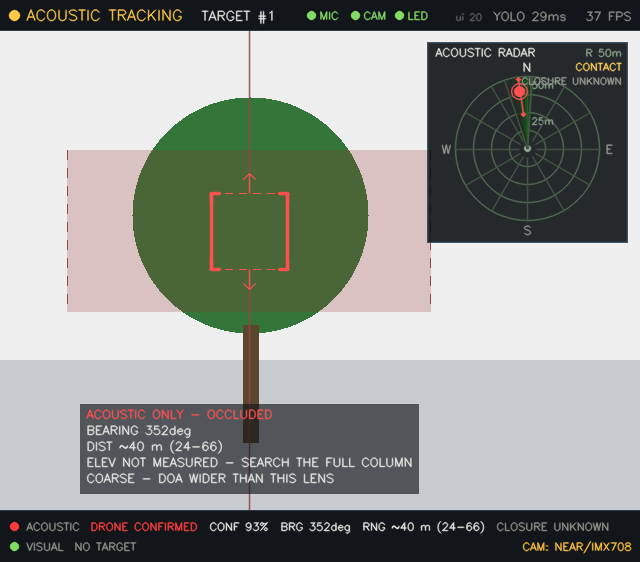
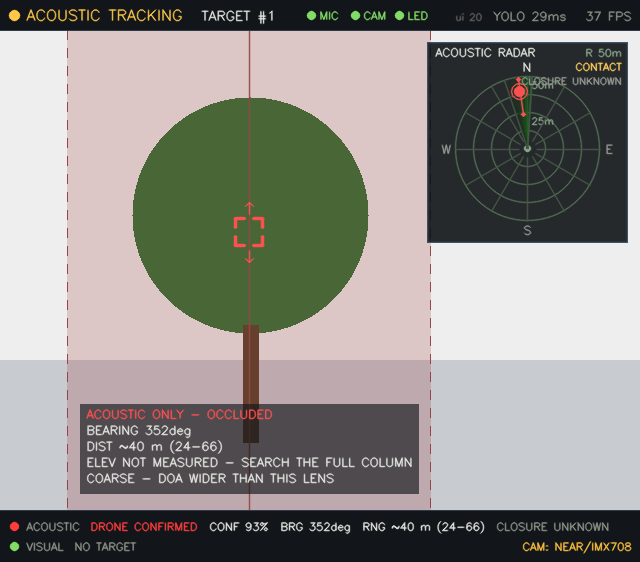
uqqqqqqq

diff --git a/acoustic_radar/hud.py b/acoustic_radar/hud.py
@@ -479,19 +479,19 @@ class HUD:
 
         # ── The search REGION ──
         #
-        # WIDTH is a real measurement: the bearing uncertainty projected
-        # through this camera's own lens, so a low-confidence bearing is
-        # visibly a wider search.
+        # Exactly two things are drawn, because exactly two things are
+        # known, and they are different in kind:
         #
-        # HEIGHT is NOT a measurement, and the drawing says so rather than
-        # the region being withheld. The array reports azimuth only, so the
-        # box's top and bottom edges are drawn OPEN — solid sides, corner
-        # brackets, and arrows continuing past the top and bottom — which
-        # reads as "this column, height unknown" while still being a
-        # compact marker an operator can find at a glance.
+        #   THE COLUMN   where the drone can be. Its WIDTH is measured (the
+        #                bearing uncertainty through this lens). Its HEIGHT
+        #                is the WHOLE FRAME, because elevation is not
+        #                measured at all — the drone can be anywhere up or
+        #                down that column.
         #
-        # `ui.cue_style = "band"` extends it over the whole frame height for
-        # anyone who wants the unknown elevation stated more loudly.
+        #   THE MARKER   a small fixed reticle on the best-estimate bearing.
+        #                It marks a DIRECTION. Its size carries no
+        #                information whatsoever and must therefore not be
+        #                derived from any measurement.
         x0 = max(0, cx - half)
         x1 = min(width, cx + half)
         if x1 <= x0:
@@ -499,67 +499,53 @@ class HUD:
 
         # ⚠ A region covering most of the frame stops being a region. On
         # the FAR camera (28 deg lens) a +/-30 deg bearing projects wider
-        # than the whole picture; tinting everything hides the very obstacle
-        # the operator is studying while saying nothing. Edges and caption
-        # only in that case.
+        # than the whole picture; tinting everything hides the obstacle the
+        # operator is studying while saying nothing.
         covers_most = (x1 - x0) >= 0.6 * width
 
-        if str(self.config.ui.cue_style).lower() == "band":
-            y0, y1 = top, bot
-            open_ended = False
-        else:
-            bh = int(height * float(self.config.ui.cue_box_height_frac))
-            cyc = top + int(height * float(self.config.ui.cue_box_centre_frac))
-            y0 = max(top, cyc - bh // 2)
-            y1 = min(bot, cyc + bh // 2)
-            open_ended = True
-
-        # ── 1. The UNCERTAINTY area: faint, wide, honest ──
-        # This is how much of the picture the bearing genuinely cannot
-        # narrow down. It is drawn faintly so it never competes with the
-        # marker or hides the obstacle.
-        if not covers_most:
-            roi = canvas[y0:y1, x0:x1]
-            tint = np.full_like(roi, C_CUE_FILL)
-            cv2.addWeighted(tint, 0.22, roi, 0.78, 0.0, dst=roi)
-        _dashed_v(canvas, x0, y0, y1, C_CUE_DIM)
-        _dashed_v(canvas, x1 - 1, y0, y1, C_CUE_DIM)
-
-        if not open_ended:
-            cv2.line(canvas, (cx, top), (cx, bot), C_CUE, 1, cv2.LINE_AA)
-            return
-
-        # ── 2. The MARKER: compact, bright, the thing the eye finds ──
+        # ── 1. The column — ALWAYS full height ──
         #
-        # A reticle at the best estimate, exactly as a targeting display
-        # puts a small mark at the solution and a wider figure around it for
-        # the error. Making the MARKER as wide as the uncertainty (which an
-        # earlier version did) buries the "look here" in a slab of colour;
-        # making the UNCERTAINTY as small as the marker would claim a
-        # precision the array does not have. Both are drawn, each saying
-        # its own thing.
-        mh = max(18, int(height * float(self.config.ui.cue_marker_frac)))
-        mw = min(mh, max(12, (x1 - x0) // 2))
-        mx0, mx1 = cx - mw // 2, cx + mw // 2
-        my0, my1 = (y0 + y1) // 2 - mh // 2, (y0 + y1) // 2 + mh // 2
+        # ⚠ FIXED: this used to be given a vertical extent from
+        # `cue_box_height_frac` whenever the style was "box". That quietly
+        # asserted an UPPER AND LOWER BOUND on the drone's elevation, which
+        # is the one thing this sensor cannot supply at all. A faint band
+        # 34% of the frame tall reads as "it is somewhere in here
+        # vertically" — and that was simply false.
+        if not covers_most:
+            roi = canvas[top:bot, x0:x1]
+            cv2.addWeighted(np.full_like(roi, C_CUE_FILL), 0.20, roi, 0.80,
+                            0.0, dst=roi)
+        _dashed_v(canvas, x0, top, bot, C_CUE_DIM)
+        _dashed_v(canvas, x1 - 1, top, bot, C_CUE_DIM)
+        cv2.line(canvas, (cx, top), (cx, bot), C_CUE_DIM, 1, cv2.LINE_AA)
 
-        # Sides SOLID — the horizontal position is measured.
-        cv2.line(canvas, (mx0, my0), (mx0, my1), C_CUE, 2, cv2.LINE_AA)
-        cv2.line(canvas, (mx1, my0), (mx1, my1), C_CUE, 2, cv2.LINE_AA)
-        # Top and bottom DASHED, with arrows running past them — the
-        # vertical position is NOT measured, and the marker must never read
-        # like a YOLO box, which asserts both dimensions.
-        _dashed_h(canvas, my0, mx0, mx1, C_CUE)
-        _dashed_h(canvas, my1, mx0, mx1, C_CUE)
-        _corner_brackets(canvas, mx0, my0, mx1 + 1, my1 + 1, C_CUE, arm=8)
-        for y, dy in ((my0, -1), (my1, 1)):
-            cv2.arrowedLine(canvas, (cx, y), (cx, int(y + dy * 20)), C_CUE, 1,
-                            cv2.LINE_AA, tipLength=0.4)
+        # ── 2. The marker ──
+        if str(self.config.ui.cue_style).lower() != "band":
+            # ⚠ FIXED: the size used to be
+            #     mh = height * cue_marker_frac
+            #     mw = min(mh, (x1 - x0) // 2)
+            # — a width derived from a height, capped by half the bearing
+            # uncertainty. Neither expression meant anything: the reticle
+            # marks a direction, so tying its size to the error made it grow
+            # exactly when the estimate got WORSE. It is now a fixed square.
+            m = max(12, int(round(height * float(
+                self.config.ui.cue_marker_frac))))
+            my = top + int(round(height * float(
+                self.config.ui.cue_marker_centre_frac)))
+            mx0, mx1 = cx - m // 2, cx + m // 2
+            my0, my1 = my - m // 2, my + m // 2
 
-        # The bearing line, drawn only OUTSIDE the marker so the marker's
-        # interior stays clear for whatever is hiding the drone.
-        cv2.line(canvas, (cx, top), (cx, my0 - 20), C_CUE_DIM, 1, cv2.LINE_AA)
-        cv2.line(canvas, (cx, my1 + 20), (cx, bot), C_CUE_DIM, 1, cv2.LINE_AA)
+            # Corner brackets only. At this size dashed edges turn to mush,
+            # and brackets leave all four edges open anyway — which is the
+            # honest shape: nothing here is a closed, measured boundary.
+            _corner_brackets(canvas, mx0, my0, mx1, my1, C_CUE,
+                             arm=max(4, m // 3))
+            # Short arrows above and below, saying the drone may be higher
+            # or lower along this column.
+            for y, dy in ((my0, -1), (my1, 1)):
+                cv2.arrowedLine(canvas, (cx, int(y + dy * 4)),
+                                (cx, int(y + dy * 16)), C_CUE, 1,
+                                cv2.LINE_AA, tipLength=0.45)
 
         # ── Caption ──
         # Deliberately worded so it can never be mistaken for a detection:
@@ -577,10 +563,9 @@ class HUD:
             # its angles, so it could be mirrored. Say so on the picture
             # rather than withhold the picture.
             lines.append("BEARING UNVERIFIED - run calibrate.py doa")
-        if str(self.config.ui.cue_style).lower() != "band":
-            # The one thing about this marker that is NOT measured, said in
-            # words as well as in the open edges above.
-            lines.append("ELEV NOT MEASURED - SEARCH THE FULL COLUMN")
+        # The one thing about this marker that is NOT measured, said in
+        # words as well as by the open brackets and the arrows.
+        lines.append("ELEV NOT MEASURED - SEARCH THE FULL COLUMN")
         if cue.uncertainty_exceeds_fov:
             # Honest caveat: a +/-15-45 deg DOA cannot localise inside a
             # 28 deg lens, so the "region" is most of the picture.

diff --git a/acoustic_radar/test_integration.py b/acoustic_radar/test_integration.py
@@ -1612,8 +1612,66 @@ def test_15_camera_search_region():
               f"{red:,} marker pixels, role={snap.cue_role.value}")
         check(f"cue_style={style!r} does not alter the fused state",
               snap.cue_role is CueRole.SEARCH)
+        check(f"cue_style={style!r} still draws the caption",
+              any("ACOUSTIC" in "" for _ in ()) or red > 200)
     cfg.ui.cue_style = "box"
     del _cv2
+
+    # ── The marker is a RETICLE: its size must carry no information ──
+    #
+    # ⚠ REGRESSION GUARD. The first version sized it as
+    #     mh = height * cue_marker_frac ; mw = min(mh, (x1 - x0) // 2)
+    # so the marker GREW as the bearing uncertainty grew — it looked
+    # biggest exactly when the estimate was worst. It also gave the faint
+    # uncertainty area a fixed vertical extent, which asserted an upper and
+    # lower bound on an elevation nothing measures.
+    from hud import STATUS_H
+
+    hud2 = HUD(cfg, BearingProjector(cfg.geometry, cfg.visual.frame_width))
+    my = STATUS_H + int(480 * cfg.ui.cue_marker_centre_frac)
+
+    BORE = 150.0            # this test's camera_boresight_deg
+
+    def _marker_box(conf, offset_deg=0.0):
+        bearing = BORE + offset_deg
+        fx = SensorFusion(cfg, BearingProjector(cfg.geometry, 640))
+        vo = VisualObservation(frame=np.full((480, 640, 3), 250, np.uint8),
+                               frame_width=640, frame_height=480, tracks=(),
+                               active_camera=1, timestamp=now(), seq=1)
+        for k in range(5):
+            sn = fx.update(replace(ac(seq=k), bearing_deg=bearing % 360.0,
+                                   bearing_confidence=conf), vo,
+                           HEALTHY, HEALTHY)
+        a = hud2.render(sn, 0.033, camera_fps=37.0).copy()
+        b = hud2.render(replace(sn, cue_role=CueRole.NONE), 0.033,
+                        camera_fps=37.0).copy()
+        band = slice(my - 45, my + 45)          # excludes the caption plate
+        d = np.abs(a.astype(int) - b.astype(int)).sum(axis=2)[band]
+        strong = ((d > 200) & (a[band][:, :, 2] > 190)
+                  & (a[band][:, :, 0] < 130))
+        ys, xs = np.nonzero(strong)
+        return (int(xs.min()), int(xs.max())), sn
+
+    widths, columns = [], []
+    for conf in (0.95, 0.6, 0.3, 0.05):
+        (mx0, mx1), sn = _marker_box(conf)
+        widths.append(mx1 - mx0)
+        columns.append(sn.bearing_cue.half_width_px)
+    check("the marker size does NOT grow with bearing uncertainty",
+          len(set(widths)) == 1,
+          f"widths {widths} while the column half-width went "
+          f"{columns[0]:.0f} -> {columns[-1]:.0f} px")
+    check("the marker is the configured size, not a slab",
+          widths[0] <= int(480 * cfg.ui.cue_marker_frac) + 4,
+          f"{widths[0]} px vs configured "
+          f"{int(480 * cfg.ui.cue_marker_frac)} px")
+
+    offsets = []
+    for bearing in (-20.0, -10.0, 0.0, 10.0, 20.0):
+        (mx0, mx1), sn = _marker_box(0.9, bearing)
+        offsets.append(abs((mx0 + mx1) // 2 - sn.bearing_cue.x_px))
+    check("the marker sits ON the projected bearing at every angle",
+          max(offsets) <= 2.0, f"worst offset {max(offsets):.0f} px")
 
     # ── SCENARIO G: a camera switch must use the NEW camera's optics ──
     proj = BearingProjector(cfg.geometry, cfg.visual.frame_width)

diff --git a/acoustic_radar/fusion_config.py b/acoustic_radar/fusion_config.py
@@ -493,28 +493,24 @@ class UIConfig:
     # elevation is stated, not whether it is stated.
     cue_style: str = "box"
 
-    # [POLICY] Height of the box, as a fraction of the image height, and
-    # where its centre sits (0 = top, 1 = bottom).
+    # [POLICY] Size of the marker, as a fraction of the image height, and
+    # where it sits vertically (0 = top, 1 = bottom).
     #
-    # ⚠ THE VERTICAL POSITION IS NOT A MEASUREMENT. Nothing in this system
-    # measures elevation. The box is placed slightly above the middle
-    # because that is where an airborne target usually appears in a level
-    # camera, and its open top and bottom edges plus the ELEV NOT MEASURED
-    # caption say so on the picture. Do not read the box's height as a
-    # claim about the drone's altitude.
-    cue_box_height_frac: float = 0.34
-    cue_box_centre_frac: float = 0.42
-
-    # [POLICY] Size of the compact MARKER at the centre of the region, as a
-    # fraction of the image height.
+    # ⚠ NEITHER NUMBER IS A MEASUREMENT, and neither may be derived from
+    # one. The marker is a reticle: it says "the bearing points along this
+    # column". Its size carries no information, so it is FIXED — an earlier
+    # version scaled it with the bearing uncertainty, which made the marker
+    # grow precisely when the estimate got worse, i.e. it looked most
+    # confident when it was least trustworthy.
     #
-    # The marker and the uncertainty area are two different statements and
-    # are sized independently on purpose: the marker says "the bearing
-    # points HERE", the surrounding area says "and it cannot be narrower
-    # than THIS". Sizing the marker to the uncertainty buries the first
-    # message in a slab of colour; sizing the uncertainty to the marker
-    # would claim a precision the array does not have.
-    cue_marker_frac: float = 0.16
+    # The vertical position is a display convention only: a level camera
+    # usually shows airborne targets slightly above the middle. The
+    # ELEV NOT MEASURED caption and the arrows above and below the marker
+    # say that on the picture. Nothing in this system measures elevation.
+    #
+    # 0.06 x 480 = ~29 px, which is a marker rather than a slab.
+    cue_marker_frac: float = 0.06
+    cue_marker_centre_frac: float = 0.42
 
     # [POLICY] Radar widget size in pixels, and its inset from the frame
     # corner. Sized as a fraction of the DISPLAYED frame so it scales with
